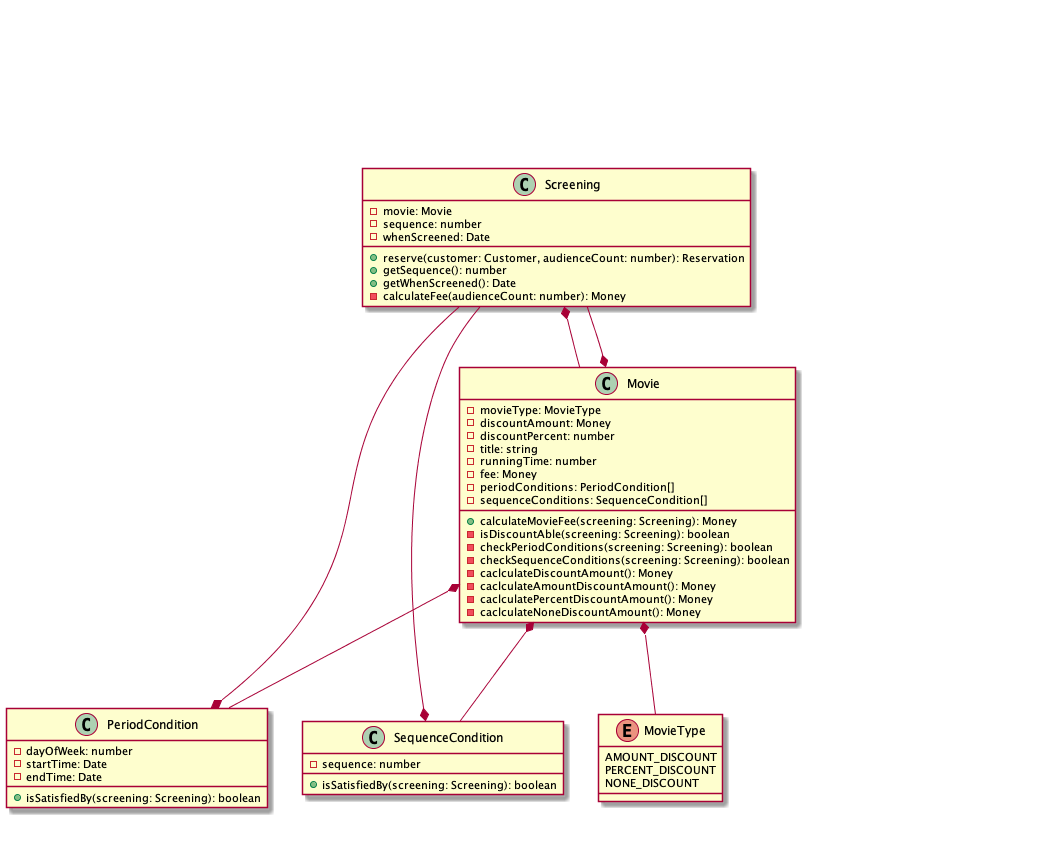
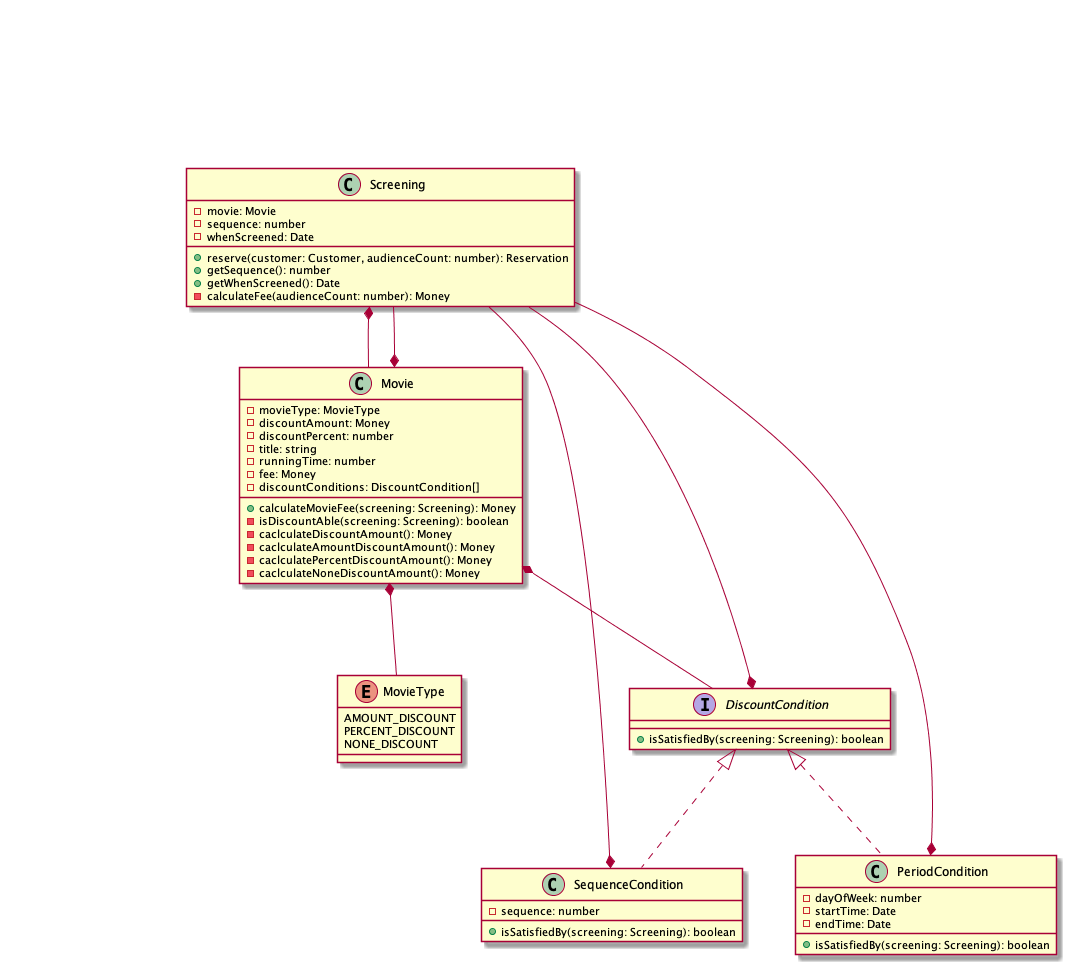
159p

diff --git a/chapter5/Movie.ts b/chapter5/Movie.ts
@@ -1,21 +1,14 @@
 import { Money } from './Money';
 import { Screening } from './Screening';
 import { MovieType } from './MovieType';
-import { PeriodCondition } from './PeriodCondition';
-import { SequenceCondition } from './SequenceCondition';
+import { DiscountCondition } from './DiscountCondition';
 
 export class Movie {
   private movieType: MovieType;
   private discountAmount: Money;
   private discountPercent: number;
 
-  constructor(
-    private title: string,
-    private runningTime: number,
-    private fee: Money,
-    private periodConditions: PeriodCondition[],
-    private sequenceConditions: SequenceCondition[]
-  ) {}
+  constructor(private title: string, private runningTime: number, private fee: Money, private discountConditions: DiscountCondition[]) {}
 
   calculateMovieFee(screening: Screening): Money {
     if (this.isDiscountAble(screening)) {
@@ -26,15 +19,7 @@ export class Movie {
   }
 
   private isDiscountAble(screening: Screening): boolean {
-    return this.checkPeriodConditions(screening) || this.checkSequenceConditions(screening);
-  }
-
-  private checkPeriodConditions(screening: Screening): boolean {
-    return this.periodConditions.some(discountCondition => discountCondition.isSatisfiedBy(screening));
-  }
-
-  private checkSequenceConditions(screening: Screening): boolean {
-    return this.sequenceConditions.some(discountCondition => discountCondition.isSatisfiedBy(screening));
+    return this.discountConditions.some(discountCondition => discountCondition.isSatisfiedBy(screening));
   }
 
   private caclculateDiscountAmount(): Money {

diff --git a/chapter5/PeriodCondition.ts b/chapter5/PeriodCondition.ts
@@ -1,6 +1,7 @@
 import { Screening } from './Screening';
+import { DiscountCondition } from './DiscountCondition';
 
-export class PeriodCondition {
+export class PeriodCondition implements DiscountCondition {
   constructor(private dayOfWeek: number, private startTime: Date, private endTime: Date) {}
 
   isSatisfiedBy(screening: Screening): boolean {

diff --git a/chapter5/SequenceCondition.ts b/chapter5/SequenceCondition.ts
@@ -1,6 +1,7 @@
 import { Screening } from './Screening';
+import { DiscountCondition } from './DiscountCondition';
 
-export class SequenceCondition {
+export class SequenceCondition implements DiscountCondition {
   constructor(private sequence: number) {}
 
   isSatisfiedBy(screening: Screening): boolean {

diff --git a/chapter5/DiscountCondition.ts b/chapter5/DiscountCondition.ts
@@ -1,0 +1,5 @@
+import { Screening } from './Screening';
+
+export interface DiscountCondition {
+  isSatisfiedBy(screening: Screening): boolean;
+}
